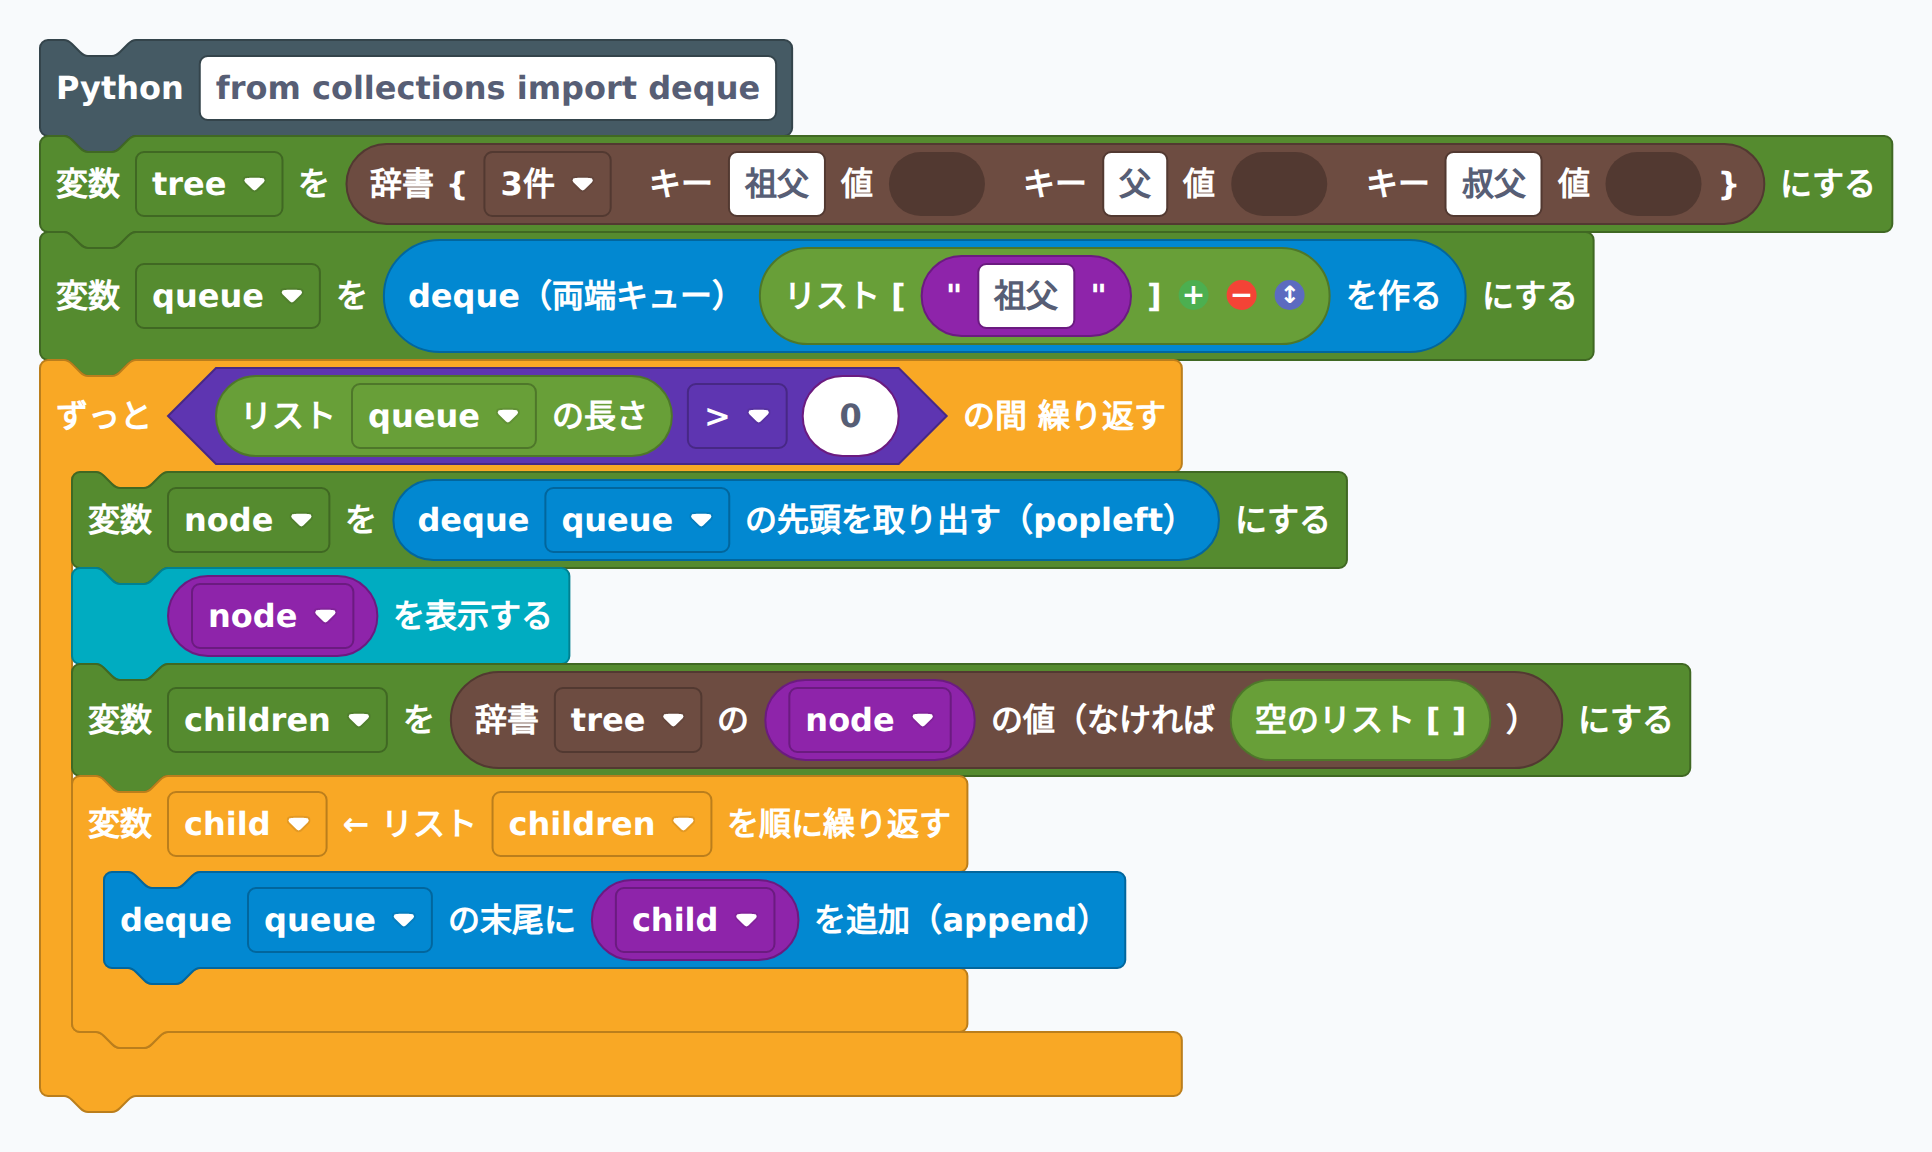
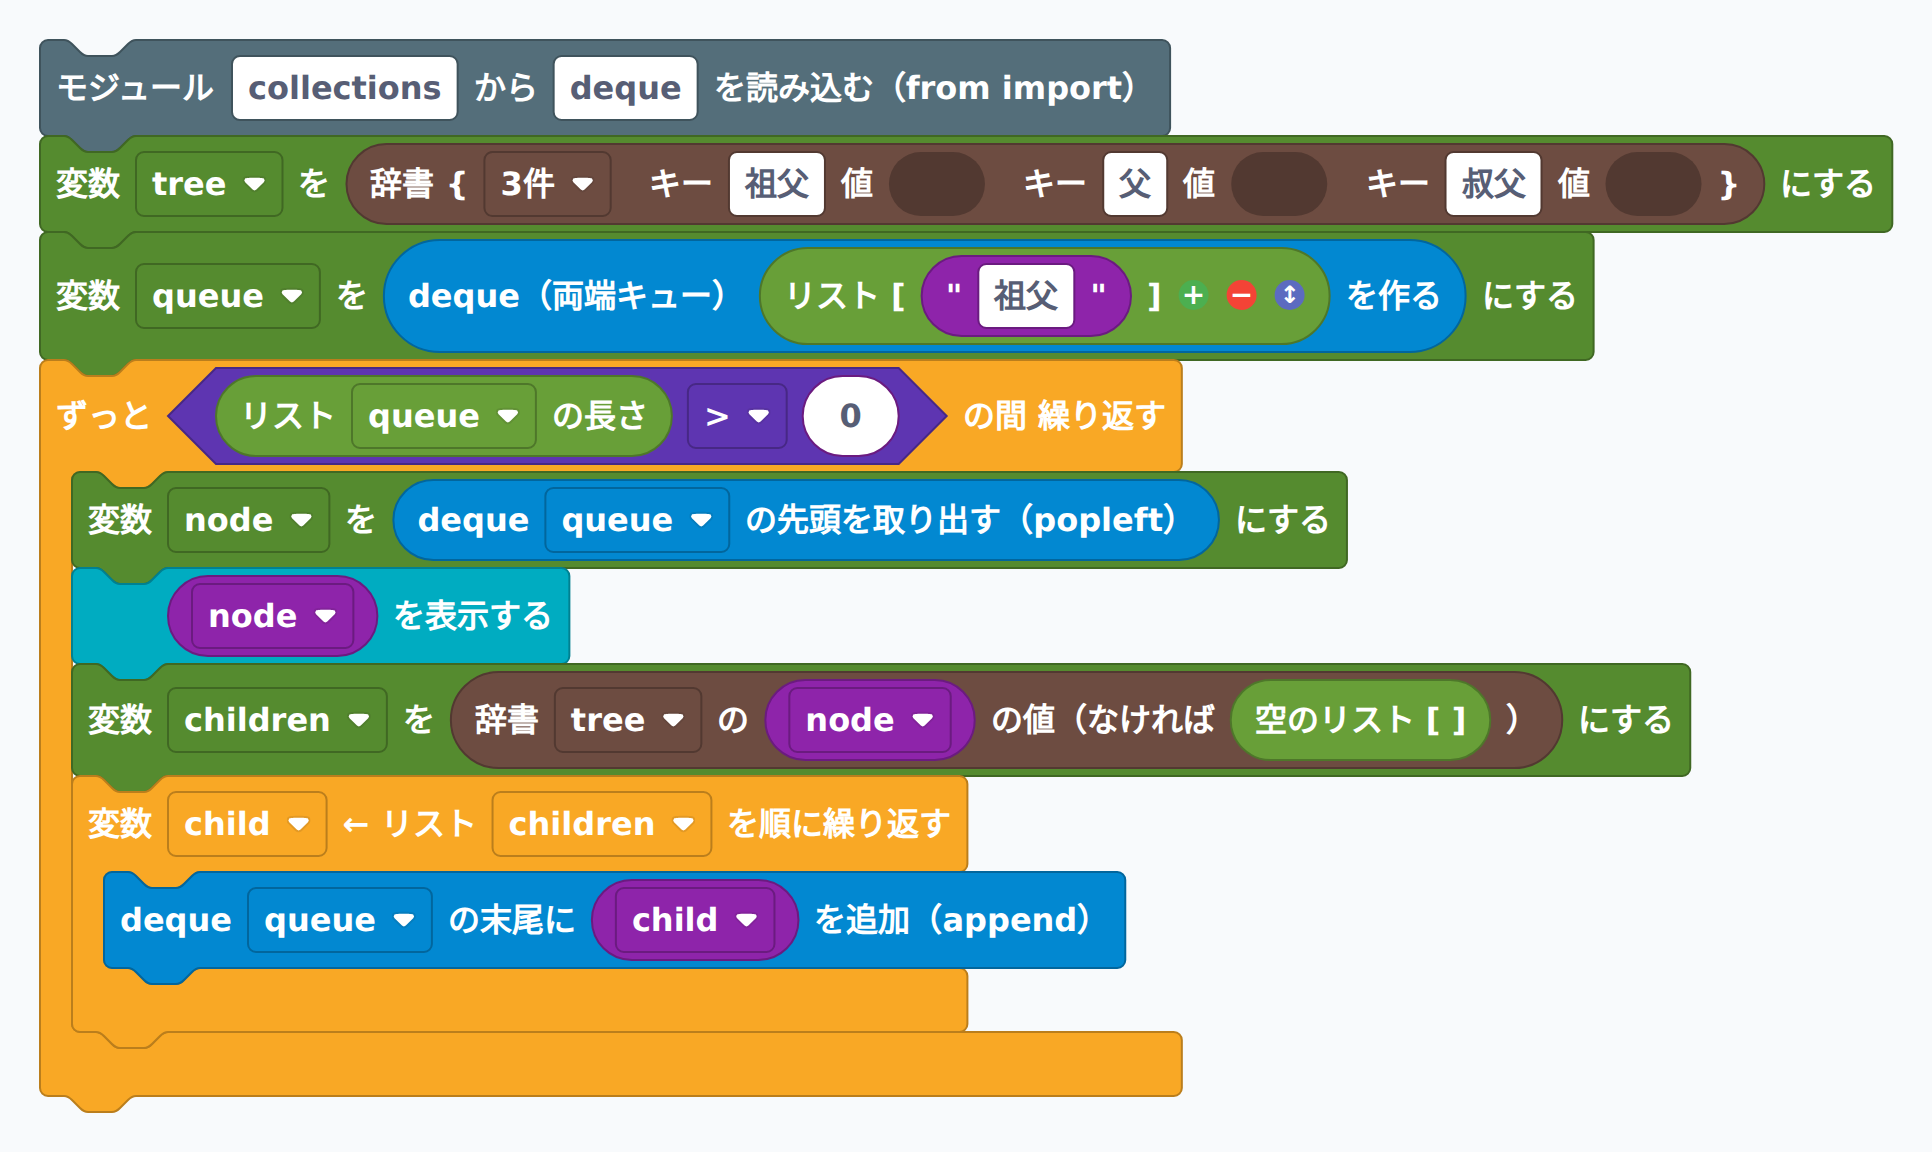
新ブロック py_from_import 追加 + BFS XMLの import をブロック化
- js/blocks/python_intro.js: from X import Y 形式の文ブロック
  py_from_imp ortを追加（モジュール+名前のテキスト2フィールド）
- js/app.js: 文生成 (from MODULE import NAMES) と日本語ヒント
- index.html: モジュールカテゴリに登録
- 0-28_ans5_bfs.xml / 0-29_ans6_bfs_maze.xml / 0-29_ans8_combined.xml:
  py_custom_stmtでベタ書きしていた "from collections import deque"を
  py_from_importブロックに置換し、画像も再生成

Changed region(s): [[0.0311, 0.0312, 0.6211, 0.125]]

diff --git a/js/app.js b/js/app.js
@@ -545,6 +545,7 @@ document.addEventListener('DOMContentLoaded', function() {
       case 'py_round':         return '四捨五入（round）';
       case 'py_set_empty':     return '空のセット set()';
       case 'py_import_module': return `モジュール「${block.getFieldValue('MODULE')}」を読み込む（import）`;
+      case 'py_from_import':   return `モジュール「${block.getFieldValue('MODULE')}」から「${block.getFieldValue('NAMES')}」を読み込む（from import）`;
       case 'py_bisect_left':   return `整列済みリスト「${getVarName(block, 'LIST')}」で値が入る左端の位置（bisect_left）`;
       case 'py_bisect_right':  return `整列済みリスト「${getVarName(block, 'LIST')}」で値が入る右端の位置（bisect_right）`;
       case 'py_str_isdigit':   return '文字列が数字だけか（isdigit）';
@@ -1637,6 +1638,12 @@ document.addEventListener('DOMContentLoaded', function() {
       case 'py_import_module': {
         const impMod = block.getFieldValue('MODULE') || '';
         code = appendLocal(code, indent + `import ${impMod}\n`);
+        break;
+      }
+      case 'py_from_import': {
+        const fiMod   = block.getFieldValue('MODULE') || '';
+        const fiNames = block.getFieldValue('NAMES')  || '';
+        code = appendLocal(code, indent + `from ${fiMod} import ${fiNames}\n`);
         break;
       }
       case 'py_deque_append': {

diff --git a/js/blocks/python_intro.js b/js/blocks/python_intro.js
@@ -2025,6 +2025,24 @@ Blockly.Blocks['py_import_module'] = {
   }
 };
 
+// from モジュール import 名前 文
+Blockly.Blocks['py_from_import'] = {
+  init: function() {
+    this.appendDummyInput()
+      .appendField('モジュール')
+      .appendField(new Blockly.FieldTextInput('collections'), 'MODULE')
+      .appendField('から')
+      .appendField(new Blockly.FieldTextInput('deque'), 'NAMES')
+      .appendField('を読み込む（from import）');
+    this.setInputsInline(true);
+    this.setPreviousStatement(true, null);
+    this.setNextStatement(true, null);
+    this.setColour(P.modules);
+    this.setTooltip('モジュール内の特定の名前を読み込みます（from モジュール import 名前）');
+    this.setHelpUrl('');
+  }
+};
+
 // bisect.bisect_left
 Blockly.Blocks['py_bisect_left'] = {
   init: function() {

diff --git a/index.html b/index.html
@@ -545,6 +545,7 @@
     <!-- 0-15: モジュール呼び出し -->
     <category name="モジュール" colour="#546E7A">
       <block type="py_import_module" gap="8"></block>
+      <block type="py_from_import" gap="8"></block>
       <block type="py_module_call_stmt" gap="8"></block>
       <block type="py_module_call_val" gap="8"></block>
     </category>
